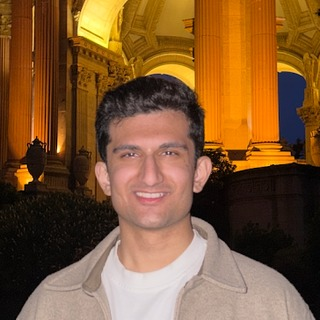
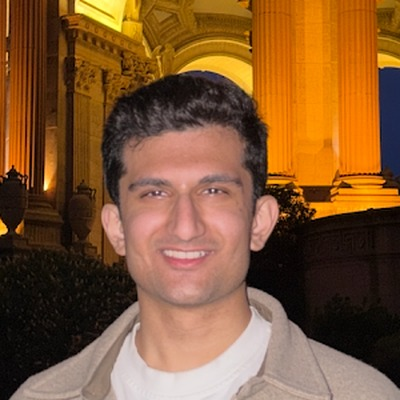
Blog: bigger centred portrait, AmongAgents reference, drop footer and byline subtitle

diff --git a/deception/index.html b/deception/index.html
@@ -32,8 +32,8 @@ body{
 
 .page{position:relative; z-index:1; padding:70px 0 0}
 article{
-  max-width:min(94vw, 1000px); margin:0 auto; background:var(--paper);
-  padding:36px 54px 26px;
+  max-width:min(94vw, 1000px); margin:0 auto 56px; background:var(--paper);
+  padding:30px 54px 30px;
 }
 h1{
   font-family:var(--f-head); font-size:36px; line-height:1.2; font-weight:700;
@@ -58,22 +58,25 @@ a{color:#1552a8}
 .lede{font-size:18px; color:var(--ink)}
 
 /* masthead: title block left, portrait right */
-.masthead{display:flex; align-items:flex-start; justify-content:space-between; gap:30px}
+.masthead{display:flex; align-items:center; justify-content:space-between; gap:34px}
+/* the portrait column is taller than the title column, so pull the first
+   heading up against it instead of leaving the centring slack as a gap */
+.masthead + h2{margin-top:10px}
 .mh-text{min-width:0; flex:1 1 auto}
 .mh-text h1{margin-bottom:8px}
 .mh-text .byline{margin-bottom:4px}
-.mh-me{flex:0 0 auto; display:flex; flex-direction:column; align-items:center; gap:10px; margin-top:6px}
+.mh-me{flex:0 0 auto; display:flex; flex-direction:column; align-items:center; gap:9px}
 .avatar{
-  width:116px; height:116px; border-radius:50%; object-fit:cover; display:block;
+  width:164px; height:164px; border-radius:50%; object-fit:cover; display:block;
   border:3px solid #fff; box-shadow:0 0 0 1px var(--line), 0 3px 12px rgba(20,40,70,.16);
 }
-.social{display:flex; gap:14px; align-items:center}
+.social{display:flex; gap:16px; align-items:center}
 .social a{
   display:flex; align-items:center; justify-content:center; width:28px; height:28px;
   color:var(--ink-3); border-radius:50%; transition:color .15s ease, background .15s ease;
 }
 .social a:hover,.social a:focus-visible{color:var(--ink); background:#eef1f5}
-.social svg{width:17px; height:17px; display:block}
+.social svg{width:18px; height:18px; display:block}
 em{font-style:italic}
 strong{font-weight:600}
 
@@ -167,21 +170,16 @@ tbody td:not(:first-child){font-weight:600}
 .refs{font-size:15.5px; color:var(--ink-2); margin-bottom:0}
 .refs li:last-child{margin-bottom:0}
 .refs li{margin-bottom:9px}
-footer{max-width:min(94vw, 1000px); margin:0 auto 56px; background:var(--paper); padding:0 54px 22px;
-  font-family:var(--f-head); font-size:12.5px; color:var(--ink-3); font-style:italic}
-footer a{color:#6a7686}
 
 @media (max-width:820px){
   body{font-size:16.5px; background-attachment:scroll; background-size:300px auto}
   .page{padding-top:54px}
-  footer{margin-bottom:40px}
-  article{padding:26px 20px 28px}
-  footer{padding:0 20px 22px}
+  article{padding:26px 20px 28px; margin-bottom:40px}
   h1{font-size:27px}
   h2{font-size:19px}
   .widget{margin:22px -20px; padding:18px 20px}
   .masthead{gap:16px}
-  .avatar{width:74px; height:74px; border-width:2px}
+  .avatar{width:92px; height:92px; border-width:2px}
   .mh-me{gap:7px}
   .social{gap:9px}
   .social a{width:24px; height:24px}
@@ -206,7 +204,7 @@ footer a{color:#6a7686}
 <div class="masthead">
   <div class="mh-text">
     <h1>Can a Lie Detector Catch an LLM That Misleads Without Lying?</h1>
-    <p class="byline"><em>by</em> Aryan Tyagi<span>150 Among Us games · 483 labelled data points</span></p>
+    <p class="byline"><em>by</em> Aryan Tyagi</p>
   </div>
   <div class="mh-me">
     <img class="avatar" src="figs/aryan.jpg" alt="Aryan Tyagi">
@@ -362,12 +360,13 @@ explained further down; the alarm rate uses the 5% cutoff fixed on the original 
 
 <h2>References</h2>
 <ul class="refs">
+<li>Chi, Y., Mao, L., &amp; Tang, Z. <em>AmongAgents: Evaluating Large Language Models in the Interactive Text-Based Social Deduction Game.</em> <a href="https://arxiv.org/abs/2407.16521">arXiv:2407.16521</a></li>
 <li>Golechha, S., &amp; Garriga-Alonso, A. <em>Among Us: A Sandbox for Measuring and Detecting Agentic Deception.</em></li>
 <li>Park, J. S., et al. <em>Generative Agents: Interactive Simulacra of Human Behavior.</em></li>
 </ul>
 
 </article>
-<footer>Figures made with the <a href="https://github.com/chenliu-1996/figures4papers">figures4papers</a> house style.</footer>
+
 </div>
 
 <script>
